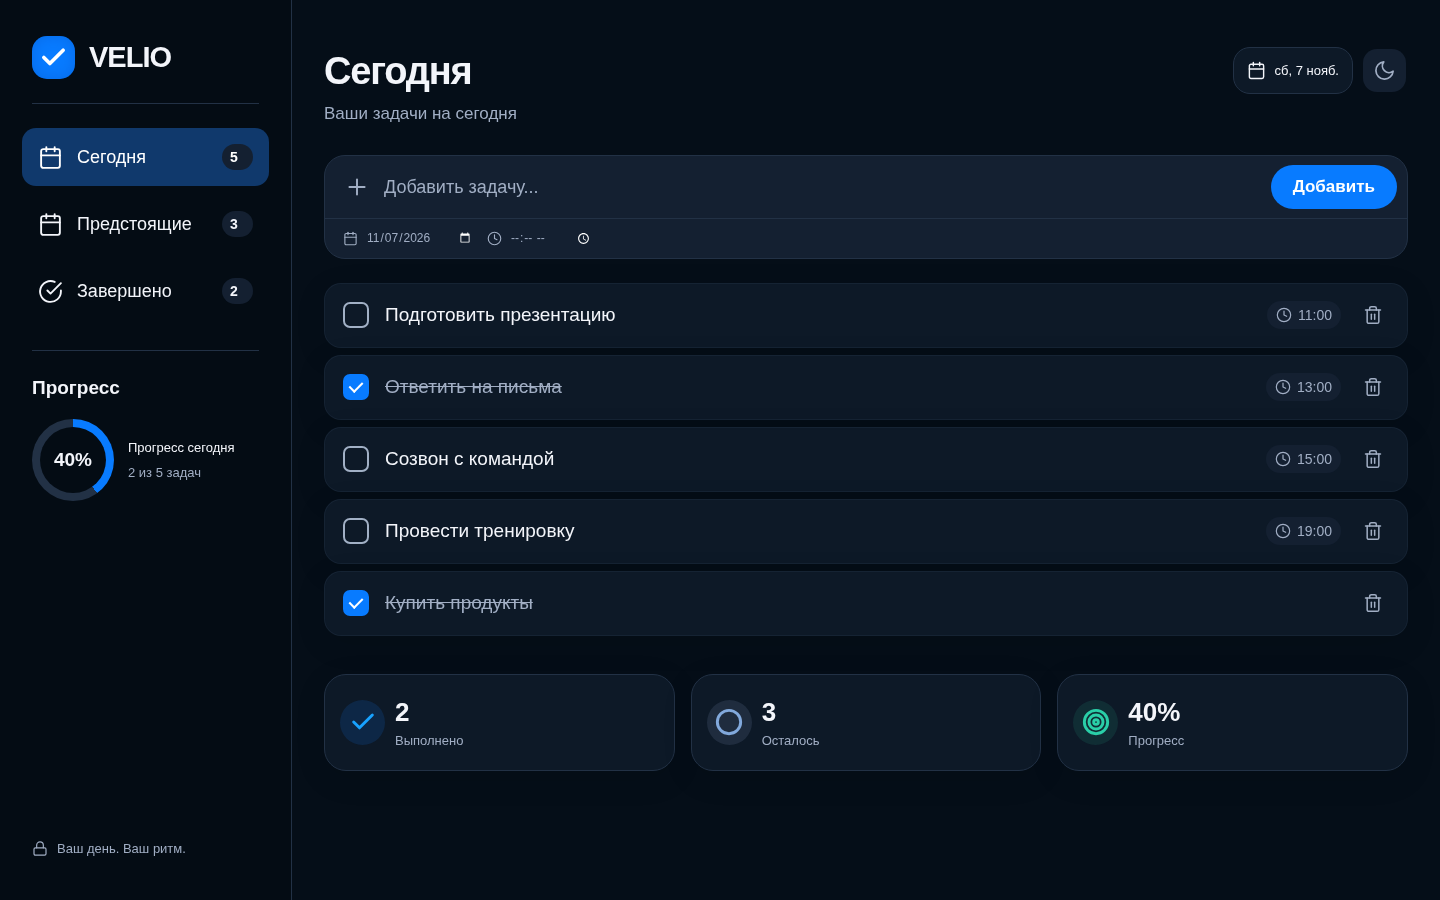
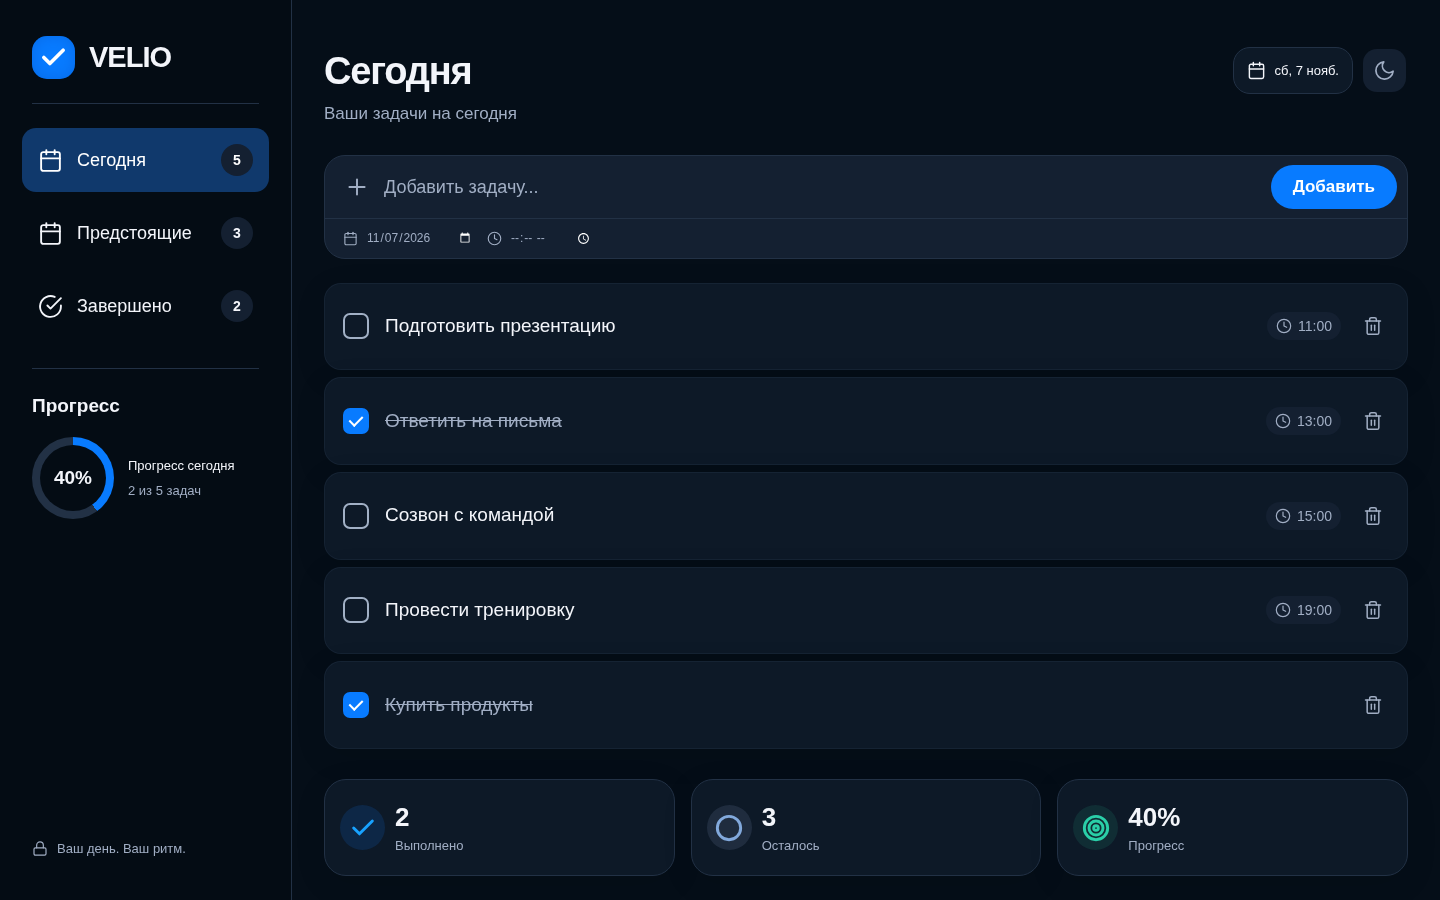
Fill desktop height, center counters and animate progress with versioned assets

diff --git a/styles.css b/styles.css
@@ -144,8 +144,14 @@ a {
 }
 .desktop-nav button b {
   margin-left: auto;
-  min-width: 31px;
-  padding: 5px 8px;
+  display: grid;
+  place-items: center;
+  min-width: 32px;
+  height: 32px;
+  padding: 0 8px;
+  line-height: 1;
+  text-align: center;
+  font-variant-numeric: tabular-nums;
   border-radius: 20px;
   background: var(--input);
   font-size: 14px;
@@ -1109,4 +1115,148 @@ button.stat {
 button.stat:hover {
   border-color: var(--blue);
   background: var(--active);
+}
+
+/* Fill the desktop viewport, including the work area below short task lists. */
+@media (min-width: 761px) {
+  html,
+  body {
+    width: 100%;
+    min-height: 100%;
+  }
+  .workspace {
+    display: flex;
+    flex-direction: column;
+    min-height: 100dvh;
+    padding-bottom: 24px;
+  }
+  #main {
+    display: flex;
+    flex-direction: column;
+    flex: 1;
+    min-width: 0;
+  }
+  .stats {
+    margin-top: auto;
+    padding-top: 30px;
+  }
+  #task-groups {
+    margin-bottom: 0;
+  }
+  .task-row {
+    min-height: clamp(65px, 7.8vh, 92px);
+  }
+}
+/* Motion uses transforms and opacity so it does not shift surrounding content. */
+.sidebar > .brand {
+  animation: appear 0.45s ease both;
+}
+.desktop-nav button {
+  animation: appear 0.4s ease both;
+}
+.desktop-nav button:nth-child(2) {
+  animation-delay: 0.06s;
+}
+.desktop-nav button:nth-child(3) {
+  animation-delay: 0.12s;
+}
+.sidebar-progress {
+  animation: appear 0.5s 0.12s ease both;
+}
+.page-heading {
+  animation: appear 0.45s ease both;
+}
+.composer {
+  animation: appear 0.45s 0.05s ease both;
+}
+.stat {
+  animation: appear 0.45s ease both;
+  transition:
+    background-color 0.2s,
+    border-color 0.2s,
+    transform 0.2s;
+}
+.stat:nth-child(2) {
+  animation-delay: 0.06s;
+}
+.stat:nth-child(3) {
+  animation-delay: 0.12s;
+}
+button.stat:hover {
+  transform: translateY(-2px);
+}
+button.stat:active {
+  transform: scale(0.985);
+}
+.completed-banner,
+.empty-state {
+  animation: appear 0.35s ease both;
+}
+.task-row {
+  animation-delay: calc(min(var(--row-index, 0), 6) * 25ms);
+}
+.task-check {
+  transition:
+    background-color 0.18s,
+    border-color 0.18s,
+    box-shadow 0.18s;
+}
+.task-check:hover {
+  box-shadow: 0 0 0 4px var(--active);
+}
+.ring strong {
+  font-variant-numeric: tabular-nums;
+}
+#toast:not([hidden]) {
+  animation: toast-in 0.2s ease both;
+}
+@keyframes toast-in {
+  from {
+    opacity: 0;
+    translate: 0 8px;
+  }
+  to {
+    opacity: 1;
+    translate: 0 0;
+  }
+}
+.theme-toggle svg {
+  animation: theme-icon-in 0.25s ease both;
+}
+.desktop-nav button.active > svg,
+.bottom-nav button.active > svg {
+  animation: nav-icon-in 0.3s ease both;
+}
+@keyframes theme-icon-in {
+  from {
+    opacity: 0;
+    transform: rotate(-25deg) scale(0.8);
+  }
+  to {
+    opacity: 1;
+    transform: rotate(0) scale(1);
+  }
+}
+@keyframes nav-icon-in {
+  from {
+    transform: scale(0.85);
+  }
+  to {
+    transform: scale(1);
+  }
+}
+/* Keep header tools clickable above animated heading stacking contexts. */
+.top-tools {
+  z-index: 2;
+}
+@media (min-width: 761px) {
+  .today-view #task-groups:has(.task-row:nth-child(4)) {
+    display: flex;
+    flex-direction: column;
+    flex: 1;
+  }
+  .today-view #task-groups:has(.task-row:nth-child(4)) > .task-list:last-child {
+    flex: 1;
+    grid-auto-rows: minmax(65px, 1fr);
+  }
 }

diff --git a/app.js b/app.js
@@ -181,6 +181,45 @@
     li.append(del);
     return li;
   }
+  // One shared animation keeps both rings and the summary percentage in sync.
+  let progressFrame = 0;
+  let progressValue = 0;
+  let progressTarget = null;
+  function paintProgress(value) {
+    progressValue = value;
+    document.querySelectorAll("[data-progress]").forEach((el) => {
+      el.textContent = `${Math.round(value)}%`;
+    });
+    document.querySelectorAll(".ring").forEach((el) => {
+      el.style.setProperty("--value", `${value}%`);
+    });
+  }
+  function animateProgress(target, replay = false) {
+    const reduced = matchMedia("(prefers-reduced-motion: reduce)").matches;
+    if (target === progressTarget && !replay && !reduced) return;
+    cancelAnimationFrame(progressFrame);
+    const initial = progressTarget === null;
+    progressTarget = target;
+    if (reduced) {
+      paintProgress(target);
+      return;
+    }
+    const from = replay || initial ? 0 : progressValue;
+    const start = performance.now();
+    const duration = initial || replay ? 900 : 450;
+    paintProgress(from);
+    function frame(now) {
+      if (matchMedia("(prefers-reduced-motion: reduce)").matches) {
+        paintProgress(target);
+        return;
+      }
+      const elapsed = Math.min((now - start) / duration, 1);
+      const eased = 1 - Math.pow(1 - elapsed, 3);
+      paintProgress(from + (target - from) * eased);
+      if (elapsed < 1) progressFrame = requestAnimationFrame(frame);
+    }
+    progressFrame = requestAnimationFrame(frame);
+  }
   function render() {
     today = day();
     const daily = tasks.filter((t) => t.date === today),
@@ -190,12 +229,7 @@
       : 0;
     const upcoming = tasks.filter((t) => !t.done && t.date > today),
       completed = tasks.filter((t) => t.done);
-    document
-      .querySelectorAll("[data-progress]")
-      .forEach((el) => (el.textContent = `${percentage}%`));
-    document
-      .querySelectorAll(".ring")
-      .forEach((el) => el.style.setProperty("--value", `${percentage}%`));
+    animateProgress(percentage);
     $("[data-progress-label]").textContent =
       `${done} из ${daily.length} ${countLabel(daily.length)}`;
     $("#stat-done").textContent = done;
@@ -280,7 +314,11 @@
       }
       const list = document.createElement("ul");
       list.className = "task-list";
-      items.forEach((t) => list.append(row(t)));
+      items.forEach((t, index) => {
+        const item = row(t);
+        item.style.setProperty("--row-index", index);
+        list.append(item);
+      });
       groups.append(list);
     }
     $("#empty-state").hidden = selected.length > 0;
@@ -307,6 +345,7 @@
     $("#task-date").value = view === "upcoming" ? shiftedDay(1) : day();
     render();
     if (changed) {
+      if (next === "today") animateProgress(progressTarget, true);
       if (!matchMedia("(prefers-reduced-motion: reduce)").matches) {
         $("#main")
           .getAnimations()

diff --git a/index.html b/index.html
@@ -21,10 +21,10 @@
             : "light");
       } catch {}
     </script>
-    <link rel="stylesheet" href="./styles.css" />
+    <link rel="stylesheet" href="./styles.css?v=5e86ab7401f1" />
     <link rel="icon" href="./favicon.svg" type="image/svg+xml" />
-    <script src="./vendor/feather.min.js" defer></script>
-    <script src="./app.js" defer></script>
+    <script src="./vendor/feather.min.js?v=ea465ac6b69a" defer></script>
+    <script src="./app.js?v=fe75eb3d2397" defer></script>
   </head>
   <body>
     <div class="app-shell">

diff --git a/tests/layout.py b/tests/layout.py
@@ -8,6 +8,10 @@ with sync_playwright() as p:
  for width,height in [(1920,1080),(1440,900),(1280,720),(1024,768),(980,720)]:
   page=b.new_page(viewport={'width':width,'height':height},color_scheme='dark')
   page.goto(URL)
+  # Badges center their numbers inside equal-height pills.
+  for badge in page.locator('.desktop-nav [data-count]').all():
+   position=badge.evaluate("""el=>{const box=el.getBoundingClientRect();const range=document.createRange();range.selectNodeContents(el);const text=range.getBoundingClientRect();return {dx:Math.abs(text.x+text.width/2-box.x-box.width/2),dy:Math.abs(text.y+text.height/2-box.y-box.height/2)}}""")
+   assert position['dx']<=2 and position['dy']<=2,position
   page.locator('.desktop-nav [data-view=upcoming]').click()
   assert page.locator('#main').evaluate('el => el.getAnimations().length')>0
   page.wait_for_timeout(260)
@@ -18,7 +22,16 @@ with sync_playwright() as p:
   shell=page.locator('.app-shell').bounding_box()
   assert shell['x']==shell['y']==0 and shell['width']==width and shell['height']>=height
   assert page.evaluate('document.documentElement.scrollWidth <= innerWidth')
-  page.wait_for_timeout(260)
+  if width==1920:
+   initial=page.evaluate("""()=>{document.querySelector('.desktop-nav [data-view=upcoming]').click();document.querySelector('.desktop-nav [data-view=today]').click();return parseInt(document.querySelector('.sidebar [data-progress]').textContent)}""")
+   assert initial==0
+   page.wait_for_timeout(200)
+   middle=int(page.locator('.sidebar [data-progress]').inner_text().rstrip('%'))
+   assert 0<middle<40,middle
+   page.wait_for_timeout(1000)
+   assert page.locator('.sidebar [data-progress]').inner_text()=='40%'
+  page.wait_for_timeout(1000)
+  page.mouse.move(width-5,height-5)
   page.screenshot(path=f'test-results/fullscreen-{width}.png',full_page=True)
   page.locator('#calendar-open').click()
   page.screenshot(path=f'test-results/calendar-{width}.png',full_page=True)

diff --git a/README.md b/README.md
@@ -20,7 +20,7 @@
 - Интерактивный календарь на компьютере: просмотр задач на дату, выполнение, удаление и планирование новой задачи.
 - Счётчики и дневной прогресс. Карточки «Выполнено» и «Осталось» открывают соответствующие разделы.
 - Светлая/тёмная тема с сохранением выбора. Солнце обозначает светлую тему, луна — тёмную.
-- Переходы между разделами и темами; анимации учитывают `prefers-reduced-motion`.
+- Переходы между разделами и темами, последовательное появление элементов и плавное заполнение прогресса; анимации учитывают `prefers-reduced-motion`.
 - Компьютерный интерфейс занимает окно целиком. На телефоне — только нижняя навигация.
 - localStorage, восстановление после обновления, синхронизация задач между вкладками одного браузера.
 
@@ -39,7 +39,7 @@ npm run dev
 npm run build
 ```
 
-Сборка копирует готовый статический сайт в `dist/`. Можно обслуживать корень или `dist/` любым HTTP-сервером. Рабочий интерфейс не обращается к CDN: иконки Feather включены локально, лицензия — `vendor/feather-LICENSE`.
+Сборка обновляет версии CSS/JS в `index.html` и копирует готовый статический сайт в `dist/`. Перед коммитом изменений стилей или JavaScript запускайте `npm run build`: версии файлов защищают от старых ресурсов в кэше браузера. Можно обслуживать корень или `dist/` любым HTTP-сервером. Рабочий интерфейс не обращается к CDN: иконки Feather включены локально, лицензия — `vendor/feather-LICENSE`.
 
 ## Проверки
 

diff --git a/design-qa.md b/design-qa.md
@@ -49,3 +49,13 @@ The user's later brief explicitly replaces the centered desktop shell with a ful
 ## Publication
 
 GitHub Pages is now enabled on the existing repository (`main`, root). The earlier enablement permission blocker is resolved by repository configuration. Each push can deploy through Pages; the public build is verified after pushing this iteration.
+
+## Follow-up: viewport fill, badge alignment and entry animation
+
+- GitHub Pages CSS response carries `Cache-Control: max-age=600`. Earlier files used stable unversioned URLs, so an existing browser could retain the old centered stylesheet. CSS and JavaScript references now include content hashes, generated by `scripts/version-assets.cjs` before build and committed in the root index used by Pages.
+- Sidebar counters now use a 32px grid-centered pill, tabular numbers and line-height 1. Browser measurements verify the text center is within 2px of its container center at all tested desktop widths.
+- Desktop work area fills the viewport vertically. Summary cards sit at the bottom, and today's lists with four or more tasks expand into available height rather than leaving a large blank gap. Mobile layout remains intact.
+- Progress animates from 0 to the computed percentage on entry and when returning to Today; changes animate from the currently displayed value. Frame callbacks are canceled before a new animation starts. Reduced-motion preference paints the final value immediately.
+- Entry/hover/press animations cover headings, navigation, rows, cards, theme icons and notifications. Header tools have an explicit stacking level so animated headings cannot block calendar/theme clicks.
+- Local CRUD, calendar and responsive checks passed at four original viewports. Full-window, counter centering, progress animation and reduced-motion checks passed at 1920, 1440, 1280, 1024 and 980px widths. Updated visual evidence: `docs/desktop.png`, `test-results/fullscreen-*.png` and `test-results/progress-entry-final.png`.
+- final result: passed
